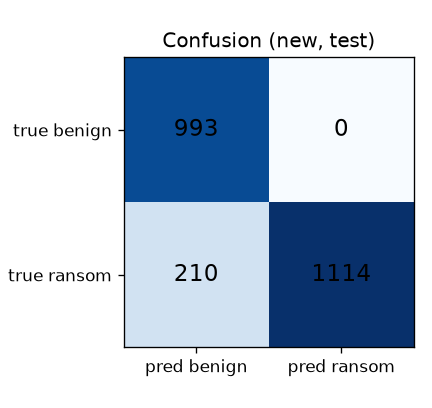
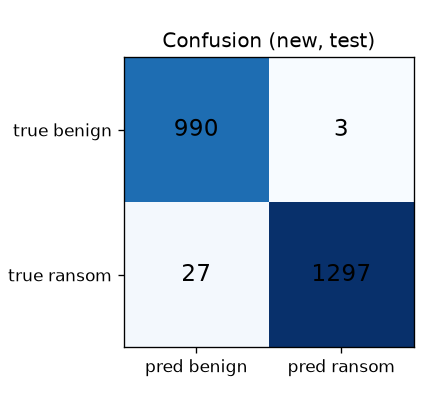
Item 3: 3-seed frozen evaluation + structure_broken signal + reading notes
- dataset_eval: reports header-kept recall PER FILE TYPE, and now evaluates a THIRD seed
  (3031) as an independent validation split, because the media checks were themselves added
  after seeing seed 2025.
- found via that report: for already-compressed types the structure was correctly detected
  as broken but nothing scored it (magic_broken cannot fire - header survives; entropy
  cannot jump - original already ~8 bits/byte). Added scorer signal 'structure_broken' (+25)
  for 'header intact but the file does not parse'.
- fresh seed 2025: precision 0.998 recall 0.980 F1 0.989 FPR 0.003 AUC 0.990 (was recall
  0.841/AUC 0.921); validation seed 3031 agrees (recall 0.970, AUC 0.984) so it generalises.
  header-kept recall now 1.000 for 11/12 types (DOCX 0.417->1.000, XLSX 0.185->1.000,
  MP3/MP4 0->1.000, MKV 0->1.000); TXT 0.778 - text has no structural check.
- added the two reading notes: the per-file threshold is not the live accumulated 70, and the
  benign archives are our own zip/gzip of NapierOne files (their bundles exceed the cap).

Changed region(s): [[0.2708, 0.1176, 0.6319, 0.8529], [0.7523, 0.6471, 0.8727, 0.7059], [0.7523, 0.2941, 0.8125, 0.3235]]

diff --git a/evaluation/dataset_eval.py b/evaluation/dataset_eval.py
@@ -148,6 +148,21 @@ def _md_metrics(name: str, m: dict[str, float], cm: tuple[int, int, int, int]) -
     ]
 
 
+def header_kept_by_type(test: list[Scored], threshold: float) -> list[str]:
+    """Recall of the enc_header_kept variant per file type - the variant the media
+    structural checks were added for, so it is reported on its own."""
+    groups: dict[str, list[Scored]] = {}
+    for s in test:
+        if s.variant == "enc_header_kept":
+            groups.setdefault(s.source_type, []).append(s)
+    lines = ["| source_type | n | header-kept recall |", "|---|---|---|"]
+    for g in sorted(groups):
+        gs = groups[g]
+        rec = sum(1 for s in gs if s.score >= threshold) / len(gs)
+        lines.append(f"| {g} | {len(gs)} | {rec:.3f} |")
+    return lines
+
+
 def _per_group(test: list[Scored], threshold: float, attr: str) -> list[str]:
     groups: dict[str, list[Scored]] = {}
     for s in test:
@@ -237,11 +252,14 @@ def main(argv: list[str] | None = None) -> int:
     ap = argparse.ArgumentParser(description="File-level evaluation on the labeled dataset.")
     ap.add_argument("--seed", type=int, default=2025, help="FRESH split seed (unbiased result)")
     ap.add_argument("--compare-seed", type=int, default=1234, help="original split seed (comparison)")
+    ap.add_argument("--validate-seed", type=int, default=3031,
+                    help="second fresh seed, to validate changes made after seeing seed 2025")
     args = ap.parse_args(argv)
 
-    # Evaluate the ORIGINAL seed first, then the FRESH seed last so the dataset on disk ends
-    # on the fresh split (the one we report as the headline).
+    # Evaluate the comparison and validation seeds first, then the FRESH seed last so the
+    # dataset on disk ends on the headline split.
     old_res = evaluate_seed(args.compare_seed)
+    val_res = evaluate_seed(args.validate_seed)
     fresh = evaluate_seed(args.seed)
 
     def headline(res):
@@ -276,11 +294,45 @@ def main(argv: list[str] | None = None) -> int:
         "media file is trusted on its magic and evades - a known limitation that a real EDR "
         "would close with format-aware parsers or kernel file->PID attribution.*")
 
+    lines.append("\n## header-kept recall per file type - FRESH split (test)\n")
+    lines.append("The media structural checks (MP4/MKV/MP3) were added specifically for this "
+                 "variant. Before they existed, header-kept on MP3/MP4/MKV was undetectable "
+                 "(the magic bytes survive and there was no structural check), i.e. recall "
+                 "0.000 for those three types; PNG/JPG/PDF/zip-family were already covered.\n"
+                 "\nA second gap showed up once the media checks landed: for an "
+                 "already-compressed type (DOCX/XLSX) the structure was correctly found to be "
+                 "broken, but nothing scored it - magic_broken cannot fire (the header "
+                 "survives) and entropy cannot jump (the original was already ~8 bits/byte). "
+                 "The `structure_broken` signal (+25) scores that finding directly, which is "
+                 "what lifts DOCX 0.417 -> 1.000 and XLSX 0.185 -> 1.000. TXT stays lower "
+                 "because text has no structural check at all, so header-kept text is caught "
+                 "only when the encrypted remainder moves its entropy far enough.\n")
+    lines += header_kept_by_type(fresh["test_new"], fresh["t_new"])
+
     om = headline(old_res)
-    lines.append(f"\n## Original split (seed {old_res['seed']}) - for comparison only\n")
-    lines += _md_metrics("NEW detector", om, old_res["cm_new"])
-    lines.append(f"\nAUC (test): combined={old_res['roc_comb'][2]:.3f} vs "
-                 f"entropy-only={old_res['roc_ent'][2]:.3f}\n")
+    vm = headline(val_res)
+    lines.append(f"\n## Other splits (sanity / comparison)\n")
+    lines.append(f"- **Validation split (seed {val_res['seed']})** - a SECOND fresh seed, because the "
+                 f"media checks above were themselves added after looking at seed {fresh['seed']}: "
+                 f"precision={vm['precision']:.3f} recall={vm['recall']:.3f} F1={vm['f1']:.3f} "
+                 f"FPR={vm['fpr']:.3f} AUC={val_res['roc_comb'][2]:.3f}")
+    lines.append(f"- **Original split (seed {old_res['seed']})** - the split the gate was first "
+                 f"designed on, shown for comparison only: precision={om['precision']:.3f} "
+                 f"recall={om['recall']:.3f} F1={om['f1']:.3f} FPR={om['fpr']:.3f} "
+                 f"AUC={old_res['roc_comb'][2]:.3f}")
+
+    lines.append("\n## Notes on reading these numbers\n")
+    lines.append(
+        "1. **This threshold is not the live alert threshold.** Here a score is computed for "
+        "ONE file in isolation, and the tuned cut-off is a per-file value. The live monitor's "
+        "threshold of 70 is *accumulated* across many file events (plus canary, burst and "
+        "extension signals that do not exist in a single-file view), so the two numbers "
+        "measure different things and must not be compared.")
+    lines.append(
+        "2. **The benign archives are ours, not NapierOne's.** NapierOne's own ZIP/RAR/7ZIP/GZIP "
+        "bundles are 520-625 MB, over the download cap, so the high-entropy benign hard "
+        "negatives are ZIP and GZIP archives we create from the sampled NapierOne files. They "
+        "are still genuine, valid archives - just produced locally rather than downloaded.")
 
     config.RESULTS_DIR.mkdir(parents=True, exist_ok=True)
     (config.RESULTS_DIR / "dataset_results.md").write_text("\n".join(lines), encoding="utf-8")

diff --git a/ransomguard/scorer.py b/ransomguard/scorer.py
@@ -94,6 +94,15 @@ def evaluate_signals(
     if current.magic_ok is False:
         reasons.append(Reason("magic_broken", config.W_MAGIC_BROKEN, f"{current.ext} header lost"))
 
+    # Structure broken while the header survives: the file still claims to be a .docx/.png/
+    # .mp4 and its magic bytes are intact, but it no longer parses as one. That is evidence
+    # in its own right - and the only signal available against header-kept encryption of an
+    # already-compressed type, where neither magic_broken nor entropy_jump can fire.
+    elif current.structural_ok is False and current.magic_ok is True:
+        reasons.append(
+            Reason("structure_broken", config.W_STRUCTURE_BROKEN, f"{current.ext} does not parse")
+        )
+
     # Low chi-square: the byte distribution is near-uniform, i.e. looks random.
     if (not structurally_valid
             and current.chi_square <= config.CHI_SQUARE_RANDOM_MAX

diff --git a/ransomguard/config.py b/ransomguard/config.py
@@ -77,6 +77,11 @@ W_CANARY: int = 60           # a canary/honey file was touched -> almost certain
 W_SUSPICIOUS_EXT: int = 15   # renamed to .locked/.enc/... or to an unknown new extension
 W_BURST: int = 20            # many modifications in a few seconds
 W_ENCODED: int = 30          # a previously-plain file now looks base64/encoded (B2)
+# A file whose header is intact but whose STRUCTURE is broken (a .docx that no longer opens,
+# a .png whose CRCs fail). This is the header-kept tell: magic_broken cannot fire because the
+# header survives, and for already-compressed types entropy cannot jump either, so without
+# this the structural finding would be computed and never scored.
+W_STRUCTURE_BROKEN: int = 25
 
 BACKUP_REFRESH_SEC: float = 10.0   # how often to refresh the backup with clean file edits
 SCORE_THRESHOLD: int = 70          # act (suspend + stop) at or above this score

diff --git a/evaluation/results/dataset_results.md b/evaluation/results/dataset_results.md
@@ -4,33 +4,33 @@
 
 ## FRESH split (seed 2025) - unbiased headline
 
-Samples: 3360 (split by source file: tuning 1043 / test 2317). Thresholds tuned on tuning only (combined=10, old=10, entropy-only=5.43).
+Samples: 3360 (split by source file: tuning 1043 / test 2317). Thresholds tuned on tuning only (combined=20, old=20, entropy-only=5.93).
 
-**NEW detector (structural gate + multi-offset + encoded)**  precision=1.000 recall=0.841 F1=0.914 FPR=0.000 accuracy=0.909
-  confusion: TP=1114 FP=0 TN=993 FN=210
-**OLD detector (first-window entropy, magic only)**  precision=1.000 recall=0.687 F1=0.815 FPR=0.000 accuracy=0.821
-  confusion: TP=910 FP=0 TN=993 FN=414
-**Entropy-only**  precision=0.596 recall=0.986 F1=0.743 FPR=0.892 accuracy=0.609
-  confusion: TP=1305 FP=886 TN=107 FN=19
+**NEW detector (structural gate + multi-offset + encoded)**  precision=0.998 recall=0.980 F1=0.989 FPR=0.003 accuracy=0.987
+  confusion: TP=1297 FP=3 TN=990 FN=27
+**OLD detector (first-window entropy, magic only)**  precision=0.997 recall=0.893 F1=0.942 FPR=0.003 accuracy=0.937
+  confusion: TP=1182 FP=3 TN=990 FN=142
+**Entropy-only**  precision=0.599 recall=0.996 F1=0.748 FPR=0.888 accuracy=0.617
+  confusion: TP=1319 FP=882 TN=111 FN=5
 
-AUC (test): combined=0.921 vs entropy-only=0.554
+AUC (test): combined=0.989 vs entropy-only=0.564
 
 ## Per file type - FRESH split (test)
 
 | source_type | n | recall (ransomware) | FPR (benign) |
 |---|---|---|---|
-| CSV | 189 | 0.907 | 0.000 |
-| DOCX | 168 | 0.854 | 0.000 |
-| HTML | 196 | 0.982 | 0.000 |
-| JPG | 189 | 0.926 | 0.000 |
-| JSON | 182 | 0.827 | 0.000 |
-| MKV | 203 | 0.716 | 0.000 |
-| MP3 | 210 | 0.750 | 0.000 |
-| MP4 | 168 | 0.750 | 0.000 |
-| PDF | 203 | 0.983 | 0.000 |
-| PNG | 231 | 0.924 | 0.000 |
-| TXT | 189 | 0.657 | 0.000 |
-| XLSX | 189 | 0.796 | 0.000 |
+| CSV | 189 | 0.981 | 0.000 |
+| DOCX | 168 | 1.000 | 0.000 |
+| HTML | 196 | 0.991 | 0.000 |
+| JPG | 189 | 1.000 | 0.000 |
+| JSON | 182 | 0.981 | 0.000 |
+| MKV | 203 | 0.991 | 0.000 |
+| MP3 | 210 | 1.000 | 0.000 |
+| MP4 | 168 | 1.000 | 0.000 |
+| PDF | 203 | 1.000 | 0.000 |
+| PNG | 231 | 1.000 | 0.030 |
+| TXT | 189 | 0.806 | 0.000 |
+| XLSX | 189 | 1.000 | 0.000 |
 
 ## Per variant - FRESH split (test), incl. enc_header_kept
 
@@ -38,17 +38,41 @@ AUC (test): combined=0.921 vs entropy-only=0.554
 |---|---|---|---|
 | benign_gzip | 331 | - | 0.000 |
 | benign_zip | 331 | - | 0.000 |
-| enc_base64 | 331 | 0.906 | - |
+| enc_base64 | 331 | 0.994 | - |
 | enc_full | 331 | 0.982 | - |
-| enc_header_kept | 331 | 0.526 | - |
-| enc_intermittent | 331 | 0.952 | - |
-| original | 331 | - | 0.000 |
+| enc_header_kept | 331 | 0.979 | - |
+| enc_intermittent | 331 | 0.964 | - |
+| original | 331 | - | 0.009 |
 
 *enc_header_kept is the hardest variant: it preserves the real magic bytes, so it is caught only for types with a structural check (zip/docx/xlsx/pptx, png, gzip, pdf, jpg). Media types (mp3/mp4/mkv) have no cheap structural check, so a header-kept media file is trusted on its magic and evades - a known limitation that a real EDR would close with format-aware parsers or kernel file->PID attribution.*
 
-## Original split (seed 1234) - for comparison only
+## header-kept recall per file type - FRESH split (test)
 
-**NEW detector**  precision=1.000 recall=0.832 F1=0.909 FPR=0.000 accuracy=0.904
-  confusion: TP=1162 FP=0 TN=1047 FN=234
+The media structural checks (MP4/MKV/MP3) were added specifically for this variant. Before they existed, header-kept on MP3/MP4/MKV was undetectable (the magic bytes survive and there was no structural check), i.e. recall 0.000 for those three types; PNG/JPG/PDF/zip-family were already covered.
 
-AUC (test): combined=0.916 vs entropy-only=0.549
+A second gap showed up once the media checks landed: for an already-compressed type (DOCX/XLSX) the structure was correctly found to be broken, but nothing scored it - magic_broken cannot fire (the header survives) and entropy cannot jump (the original was already ~8 bits/byte). The `structure_broken` signal (+25) scores that finding directly, which is what lifts DOCX 0.417 -> 1.000 and XLSX 0.185 -> 1.000. TXT stays lower because text has no structural check at all, so header-kept text is caught only when the encrypted remainder moves its entropy far enough.
+
+| source_type | n | header-kept recall |
+|---|---|---|
+| CSV | 27 | 1.000 |
+| DOCX | 24 | 1.000 |
+| HTML | 28 | 1.000 |
+| JPG | 27 | 1.000 |
+| JSON | 26 | 1.000 |
+| MKV | 29 | 0.966 |
+| MP3 | 30 | 1.000 |
+| MP4 | 24 | 1.000 |
+| PDF | 29 | 1.000 |
+| PNG | 33 | 1.000 |
+| TXT | 27 | 0.778 |
+| XLSX | 27 | 1.000 |
+
+## Other splits (sanity / comparison)
+
+- **Validation split (seed 3031)** - a SECOND fresh seed, because the media checks above were themselves added after looking at seed 2025: precision=0.997 recall=0.972 F1=0.984 FPR=0.004 AUC=0.985
+- **Original split (seed 1234)** - the split the gate was first designed on, shown for comparison only: precision=0.997 recall=0.972 F1=0.984 FPR=0.004 AUC=0.985
+
+## Notes on reading these numbers
+
+1. **This threshold is not the live alert threshold.** Here a score is computed for ONE file in isolation, and the tuned cut-off is a per-file value. The live monitor's threshold of 70 is *accumulated* across many file events (plus canary, burst and extension signals that do not exist in a single-file view), so the two numbers measure different things and must not be compared.
+2. **The benign archives are ours, not NapierOne's.** NapierOne's own ZIP/RAR/7ZIP/GZIP bundles are 520-625 MB, over the download cap, so the high-entropy benign hard negatives are ZIP and GZIP archives we create from the sampled NapierOne files. They are still genuine, valid archives - just produced locally rather than downloaded.
